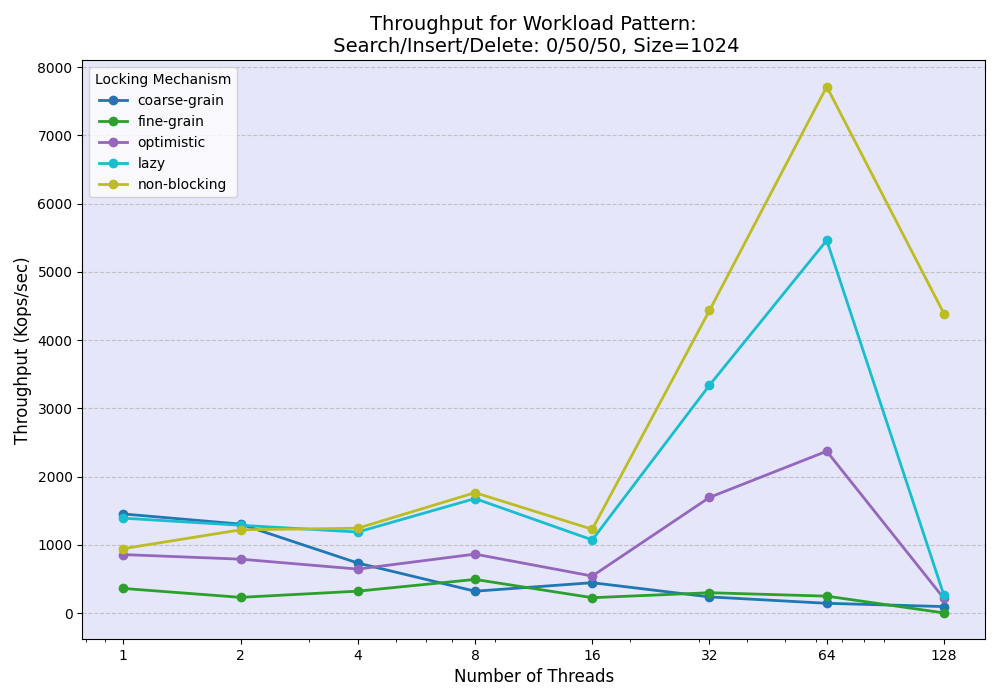
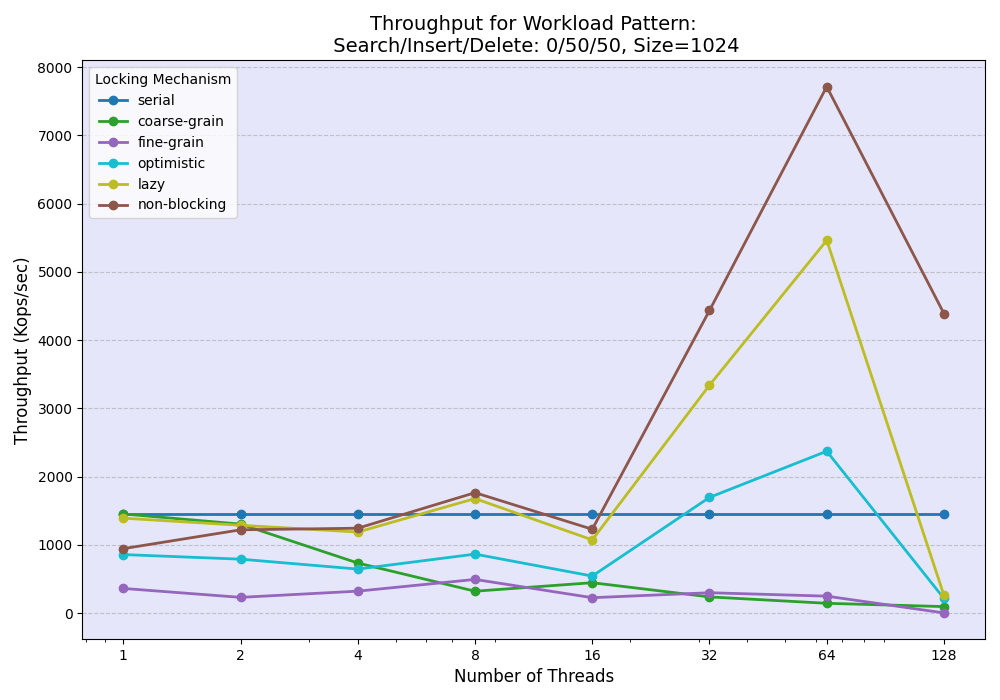
conc_ll fixes

diff --git a/a2_new/conc_ll/results/scraping_conc_ll.py b/a2_new/conc_ll/results/scraping_conc_ll.py
@@ -57,9 +57,10 @@ for i in range(0, len(workloads)):
     plt.gca().set_facecolor("#e6e6fa")
     counter = 0
     for technique in res_1024.keys():
+        y_val = res_1024[technique][workloads[i]]
         if technique == 'serial':
-            continue
-        plt.plot(nthreads, res_1024[technique][workloads[i]], marker='o',
+           y_val = [y_val for i in range(0,8)]
+        plt.plot(nthreads, y_val, marker='o',
                  linewidth=2, color=colours[counter], label=technique)
         counter += 1
     
@@ -108,9 +109,11 @@ for i in range(0, len(workloads)):
     plt.figure(figsize=(10,7))
     counter = 0
     for technique in res_8192.keys():
+        y_val = res_8192[technique][workloads[i]]
         if technique == 'serial':
-            continue
-        plt.plot(nthreads, res_8192[technique][workloads[i]], marker='o',
+           y_val = [y_val for i in range(0,8)]
+            
+        plt.plot(nthreads, y_val, marker='o',
                  linewidth=2, color=colours[counter], label=technique)
         counter += 1
 
